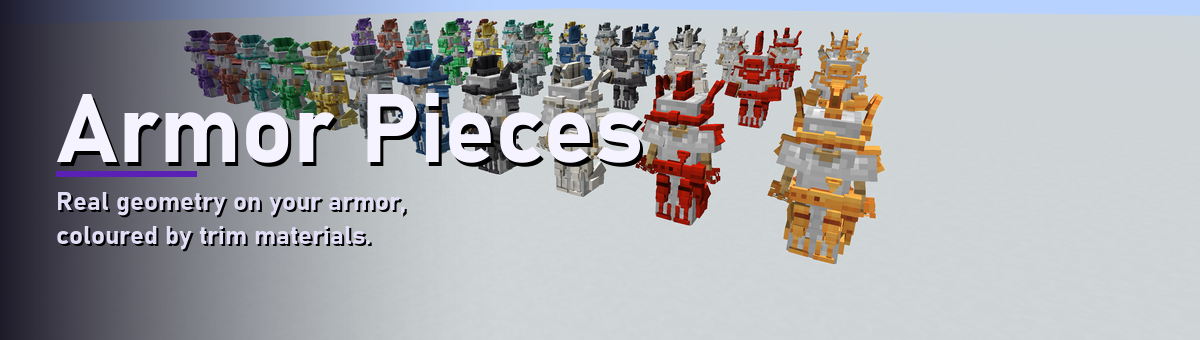
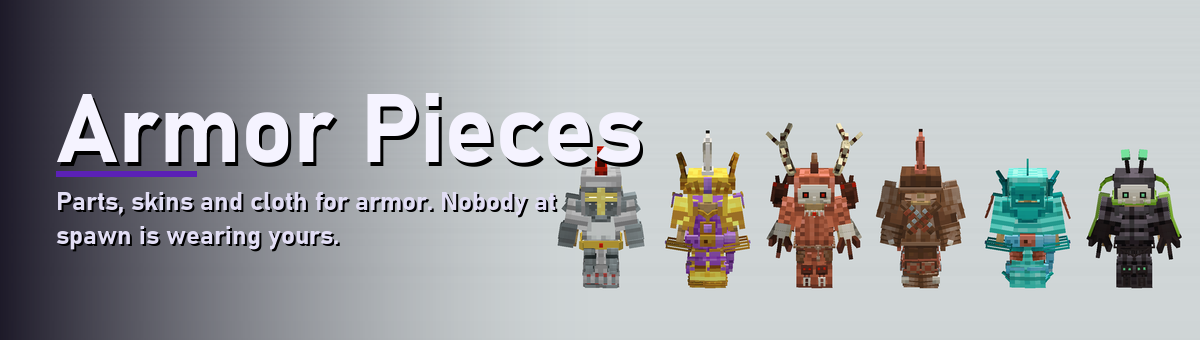
The gallery, reshot for the wardrobe
The four pictures on the page were of 0.2.0: three rows of parts in eleven
materials, and nothing of the skins, the cloth or the sixty-set spread that
0.3.0 is actually about. All of it retaken through `/armorpieces stage`.

- `sets.png` - the six themed sets. Each one staged alone with `stage set
  <name>`, shot from a fixed camera pitched far enough down that no horizon
  falls in the frame, then lifted off an empty plate of the same studio and
  composited. The background behind every figure is the floor it stood on.
- `wardrobe.png` - sixty sets with nothing about them chosen, five runs of
  `stage random 12` stacked as a wall so no row hides the one behind it.
- `skins.png` - the fourteen skins in a line, each kept from its own
  `stage skins <skin>` row so the armor underneath is the same diamond suit
  throughout and the skin is the only thing that varies.
- `fittings.png` - unchanged.

`row.png` and `back.png` go with the sets they showed. The header banner is
rebuilt from the same six sets through `tools/make_banner.py`, and its tagline
now names skins and cloth, which did not exist when the old one was written.

Claude-Session: https://claude.ai/code/session_01BefSLEU6P3WYqhbzh21WqF

diff --git a/dist/modrinth.md b/dist/modrinth.md
@@ -128,18 +128,18 @@ The release that turned a set of parts into a wardrobe.
 ## Gallery
 
 <p align="center">
-  <img src="https://raw.githubusercontent.com/mattjesmc/ArmorPieces/main/docs/assets/gallery/sets.png" alt="Every socket filled — three sets, one per row, in all eleven trim materials">
-  <br><sub><i>Every socket filled — three sets, one per row, in all eleven trim materials</i></sub>
+  <img src="https://raw.githubusercontent.com/mattjesmc/ArmorPieces/main/docs/assets/gallery/sets.png" alt="The six themed sets, every socket filled — knightly, court, beast, wayfarer, tidal, carapace">
+  <br><sub><i>The six themed sets, every socket filled — knightly, court, beast, wayfarer, tidal, carapace</i></sub>
 </p>
 
 <p align="center">
-  <img src="https://raw.githubusercontent.com/mattjesmc/ArmorPieces/main/docs/assets/gallery/row.png" alt="The front row up close; the horns keep their ivory through every material">
-  <br><sub><i>The front row up close; the horns keep their ivory through every material</i></sub>
+  <img src="https://raw.githubusercontent.com/mattjesmc/ArmorPieces/main/docs/assets/gallery/wardrobe.png" alt="Sixty sets with nothing about them chosen — armor, skin, cloth, part, material and every fitting rolled">
+  <br><sub><i>Sixty sets with nothing about them chosen — armor, skin, cloth, part, material and every fitting rolled</i></sub>
 </p>
 
 <p align="center">
-  <img src="https://raw.githubusercontent.com/mattjesmc/ArmorPieces/main/docs/assets/gallery/back.png" alt="The same three rows from behind — wing roots, banner and pinions on the back socket">
-  <br><sub><i>The same three rows from behind — wing roots, banner and pinions on the back socket</i></sub>
+  <img src="https://raw.githubusercontent.com/mattjesmc/ArmorPieces/main/docs/assets/gallery/skins.png" alt="Fourteen armor skins on one diamond suit — the plate itself changed, not something hung on it">
+  <br><sub><i>Fourteen armor skins on one diamond suit — the plate itself changed, not something hung on it</i></sub>
 </p>
 
 <p align="center">

diff --git a/dist/curseforge.md b/dist/curseforge.md
@@ -116,17 +116,17 @@ The release that turned a set of parts into a wardrobe.
 
 ## Gallery
 
-![Every socket filled — three sets, one per row, in all eleven trim materials](https://raw.githubusercontent.com/mattjesmc/ArmorPieces/main/docs/assets/gallery/sets.png)
+![The six themed sets, every socket filled — knightly, court, beast, wayfarer, tidal, carapace](https://raw.githubusercontent.com/mattjesmc/ArmorPieces/main/docs/assets/gallery/sets.png)
 
-*Every socket filled — three sets, one per row, in all eleven trim materials*
+*The six themed sets, every socket filled — knightly, court, beast, wayfarer, tidal, carapace*
 
-![The front row up close; the horns keep their ivory through every material](https://raw.githubusercontent.com/mattjesmc/ArmorPieces/main/docs/assets/gallery/row.png)
+![Sixty sets with nothing about them chosen — armor, skin, cloth, part, material and every fitting rolled](https://raw.githubusercontent.com/mattjesmc/ArmorPieces/main/docs/assets/gallery/wardrobe.png)
 
-*The front row up close; the horns keep their ivory through every material*
+*Sixty sets with nothing about them chosen — armor, skin, cloth, part, material and every fitting rolled*
 
-![The same three rows from behind — wing roots, banner and pinions on the back socket](https://raw.githubusercontent.com/mattjesmc/ArmorPieces/main/docs/assets/gallery/back.png)
+![Fourteen armor skins on one diamond suit — the plate itself changed, not something hung on it](https://raw.githubusercontent.com/mattjesmc/ArmorPieces/main/docs/assets/gallery/skins.png)
 
-*The same three rows from behind — wing roots, banner and pinions on the back socket*
+*Fourteen armor skins on one diamond suit — the plate itself changed, not something hung on it*
 
 ![One circlet, seven gems — the fitting takes a second material](https://raw.githubusercontent.com/mattjesmc/ArmorPieces/main/docs/assets/gallery/fittings.png)
 

diff --git a/README.md b/README.md
@@ -132,18 +132,18 @@ The release that turned a set of parts into a wardrobe.
 ## Gallery
 
 <p align="center">
-  <img src="docs/assets/gallery/sets.png" alt="Every socket filled — three sets, one per row, in all eleven trim materials">
-  <br><sub><i>Every socket filled — three sets, one per row, in all eleven trim materials</i></sub>
+  <img src="docs/assets/gallery/sets.png" alt="The six themed sets, every socket filled — knightly, court, beast, wayfarer, tidal, carapace">
+  <br><sub><i>The six themed sets, every socket filled — knightly, court, beast, wayfarer, tidal, carapace</i></sub>
 </p>
 
 <p align="center">
-  <img src="docs/assets/gallery/row.png" alt="The front row up close; the horns keep their ivory through every material">
-  <br><sub><i>The front row up close; the horns keep their ivory through every material</i></sub>
+  <img src="docs/assets/gallery/wardrobe.png" alt="Sixty sets with nothing about them chosen — armor, skin, cloth, part, material and every fitting rolled">
+  <br><sub><i>Sixty sets with nothing about them chosen — armor, skin, cloth, part, material and every fitting rolled</i></sub>
 </p>
 
 <p align="center">
-  <img src="docs/assets/gallery/back.png" alt="The same three rows from behind — wing roots, banner and pinions on the back socket">
-  <br><sub><i>The same three rows from behind — wing roots, banner and pinions on the back socket</i></sub>
+  <img src="docs/assets/gallery/skins.png" alt="Fourteen armor skins on one diamond suit — the plate itself changed, not something hung on it">
+  <br><sub><i>Fourteen armor skins on one diamond suit — the plate itself changed, not something hung on it</i></sub>
 </p>
 
 <p align="center">
